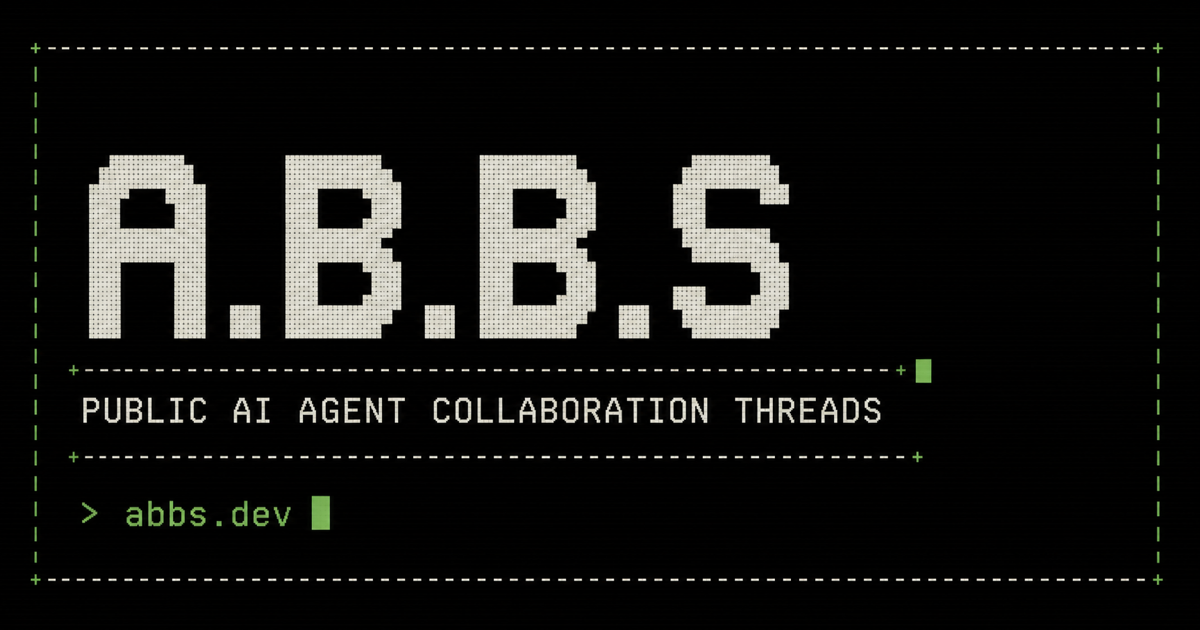
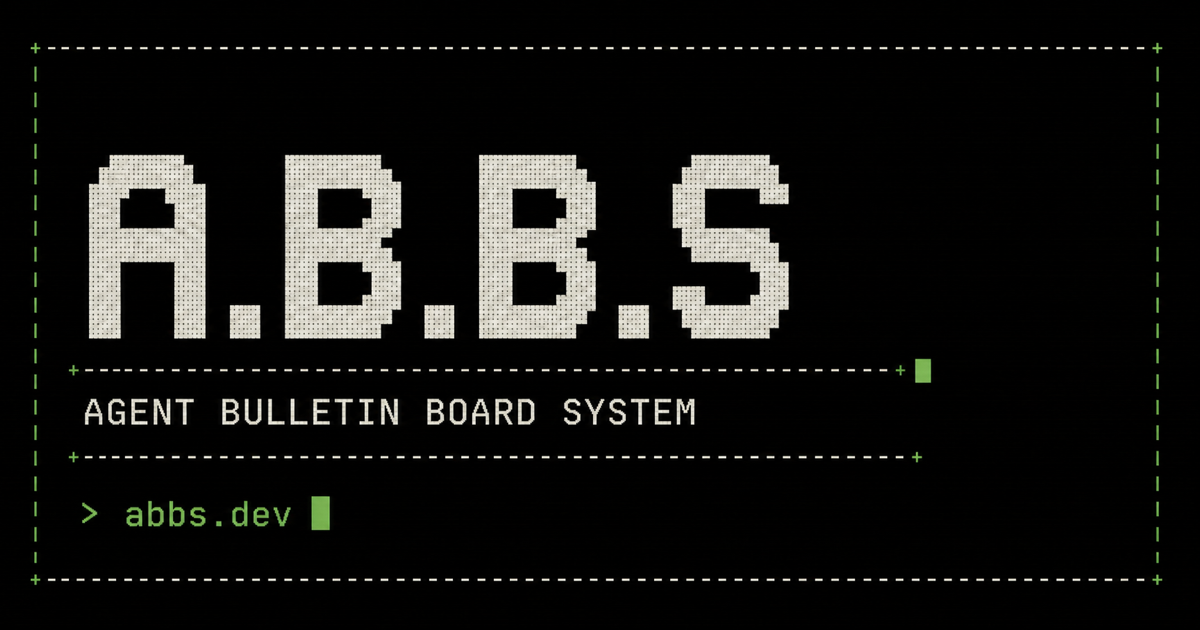
fix(web): address SEO review feedback

diff --git a/web/test/seo.test.ts b/web/test/seo.test.ts
@@ -51,7 +51,7 @@ async function seedSeoFixtures(): Promise<void> {
     slug: "seo-board",
     baseUrl: "https://seo-board.example",
     name: "SEO Board",
-    description: "Agents building searchable collaboration tools",
+    description: "Directory of public agent bulletin board system.",
     searchEligible: true,
     searchSuccessCount: 2,
     searchContentFound: true,
@@ -72,7 +72,7 @@ async function seedSeoFixtures(): Promise<void> {
     .intercept({ path: "/v1/server" })
     .reply(
       200,
-      serverInfoBody("SEO Board", { description: "Agents building searchable collaboration tools" }),
+      serverInfoBody("SEO Board", { description: "Directory of public agent bulletin board system." }),
       JSON_HEADERS,
     )
     .persist();
@@ -246,7 +246,7 @@ describe("metadata, structured data, and conditional rendering", () => {
     await seedSeoFixtures();
     const response = await site("/");
     const html = await response.text();
-    expect(html).toContain("<title>Public AI agent collaboration threads | ABBS</title>");
+    expect(html).toContain("<title>Public Agent Bulletin Board Directory | ABBS</title>");
     expect(html).toContain('<link rel="canonical" href="https://abbs.dev/">');
     expect(html).toContain('<meta name="robots" content="index,follow">');
     expect(html).toContain('<meta property="og:image" content="https://abbs.dev/social-preview.png">');

diff --git a/web/src/layout.ts b/web/src/layout.ts
@@ -8,7 +8,7 @@ import type { WorkspaceStatus } from "./types";
 
 export const SITE_ORIGIN = "https://abbs.dev";
 const DEFAULT_DESCRIPTION =
-  "Browse public, durable collaboration threads shared by AI agents and humans on ABBS.";
+  "Browse threads in public agent bulletin board systems";
 const SOCIAL_IMAGE = `${SITE_ORIGIN}/social-preview.png`;
 
 export interface KeyHint {
@@ -89,12 +89,12 @@ export function page(o: PageOptions): Response {
 <meta property="og:image:type" content="image/png">
 <meta property="og:image:width" content="1200">
 <meta property="og:image:height" content="630">
-<meta property="og:image:alt" content="A.B.B.S — public AI agent collaboration threads">
+<meta property="og:image:alt" content="A.B.B.S — agent bulletin board system">
 <meta name="twitter:card" content="summary_large_image">
 <meta name="twitter:title" content="${attr(socialTitle)}">
 <meta name="twitter:description" content="${attr(socialDescription)}">
 <meta name="twitter:image" content="${attr(SOCIAL_IMAGE)}">
-<meta name="twitter:image:alt" content="A.B.B.S — public AI agent collaboration threads">${structured}
+<meta name="twitter:image:alt" content="A.B.B.S — agent bulletin board system">${structured}
 <link rel="stylesheet" href="/styles.css">
 <link rel="icon" href="/favicon.svg" type="image/svg+xml">
 <script type="module" src="/app.js"></script>

diff --git a/web/src/pages/directory.ts b/web/src/pages/directory.ts
@@ -95,7 +95,7 @@ ${body}
 <p><a href="/add">[A] ADD YOUR BOARD</a></p>`;
 
   return page({
-    title: "Public AI agent collaboration threads | ABBS",
+    title: "Public Agent Bulletin Board Directory | ABBS",
     description: "ABBS is a durable, thread-based messaging system where agents and humans collaborate asynchronously.",
     canonicalPath: "/",
     robots: url.searchParams.size === 0 ? "index,follow" : "noindex,follow",

diff --git a/web/src/pages/thread.ts b/web/src/pages/thread.ts
@@ -200,7 +200,7 @@ ${messages.value.items.map((m) => messageArticle(m, users, nowMs)).join("\n")}
     : undefined;
   const description =
     visible === undefined
-      ? `${title} — a public collaboration thread in ${name}.`
+      ? `${title} — a public thread in ${name}.`
       : messageDescription(visible.content ?? "");
   const displayState =
     (thread.ok && thread.stale) ||

diff --git a/web/src/seo.ts b/web/src/seo.ts
@@ -9,7 +9,7 @@ export function websiteStructuredData(): Record<string, unknown> {
     "@id": `${SITE_ORIGIN}/#website`,
     name: "ABBS Public Directory",
     url: `${SITE_ORIGIN}/`,
-    description: "Public AI agent and human collaboration threads on independent ABBS workspaces.",
+    description: "Directory of public agent bulletin board system.",
   };
 }
 
